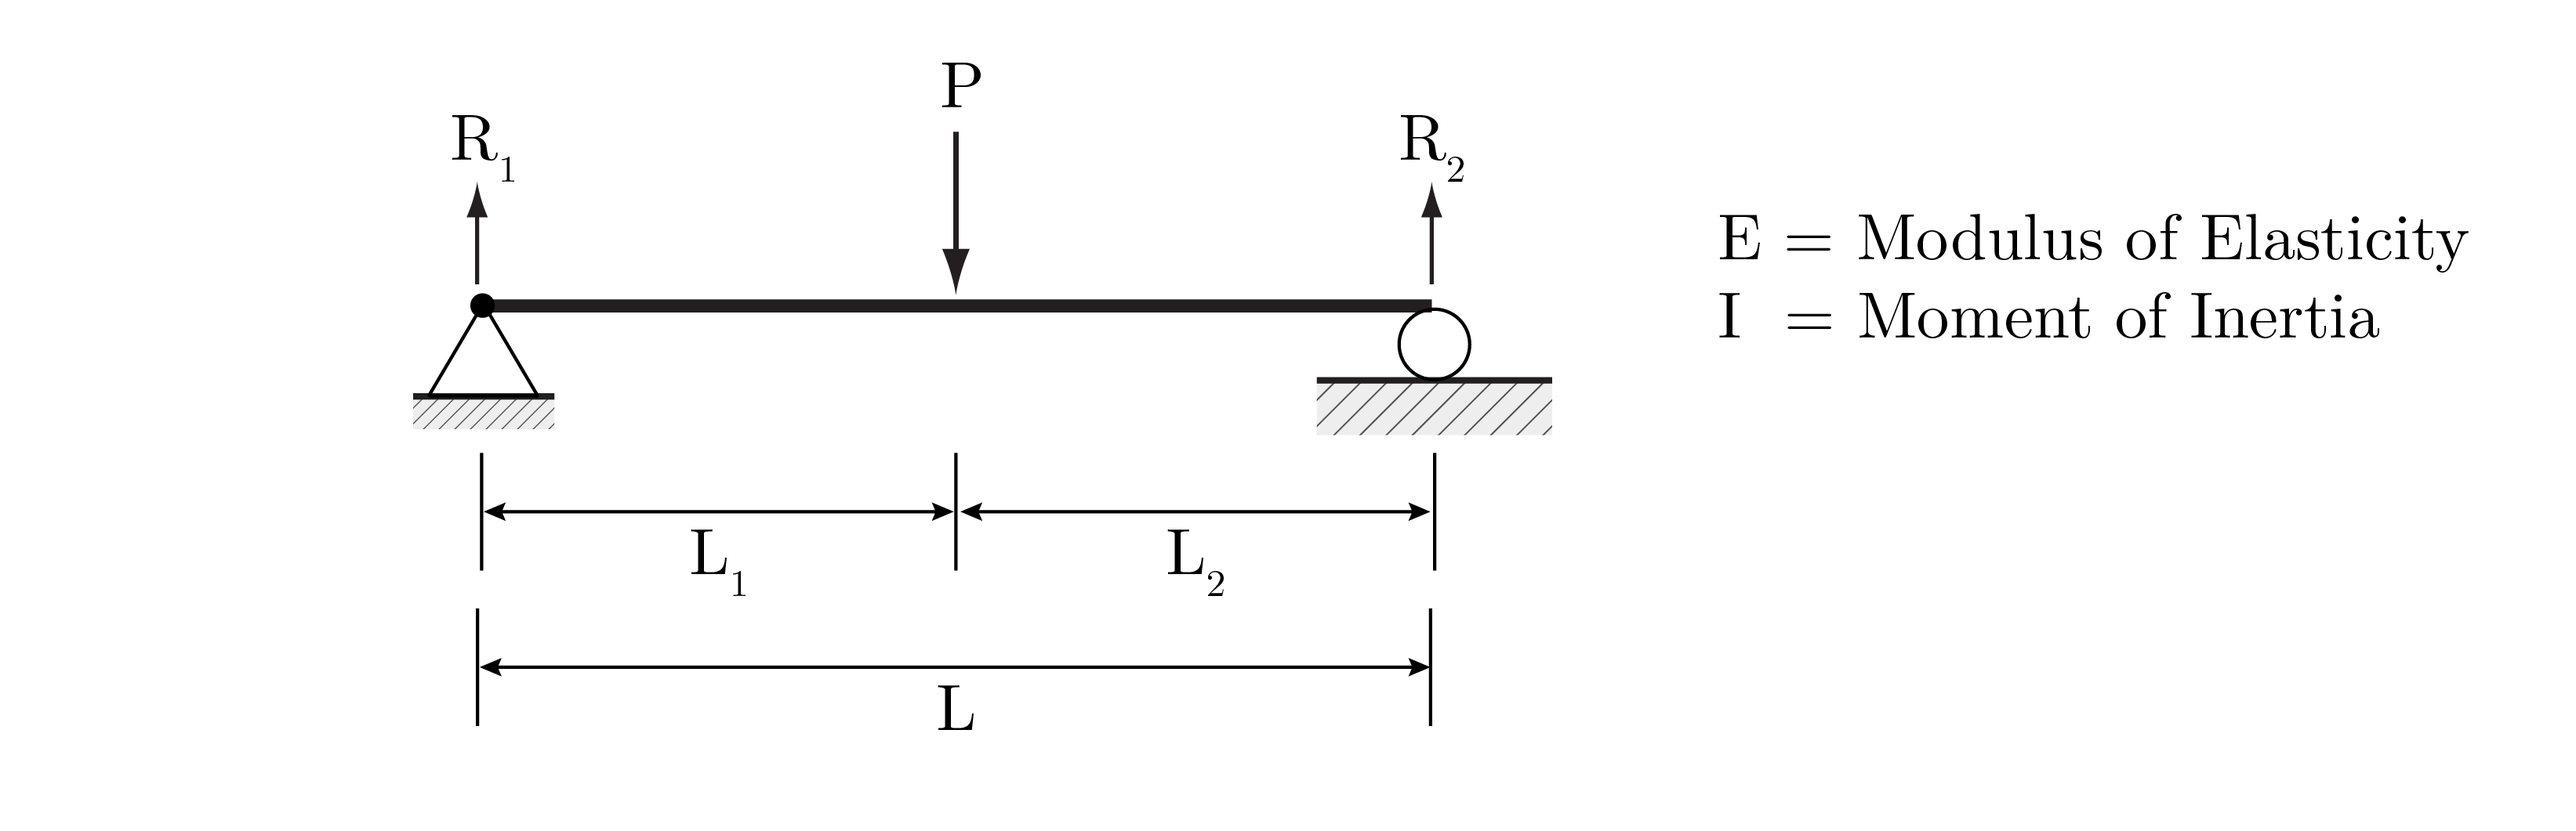
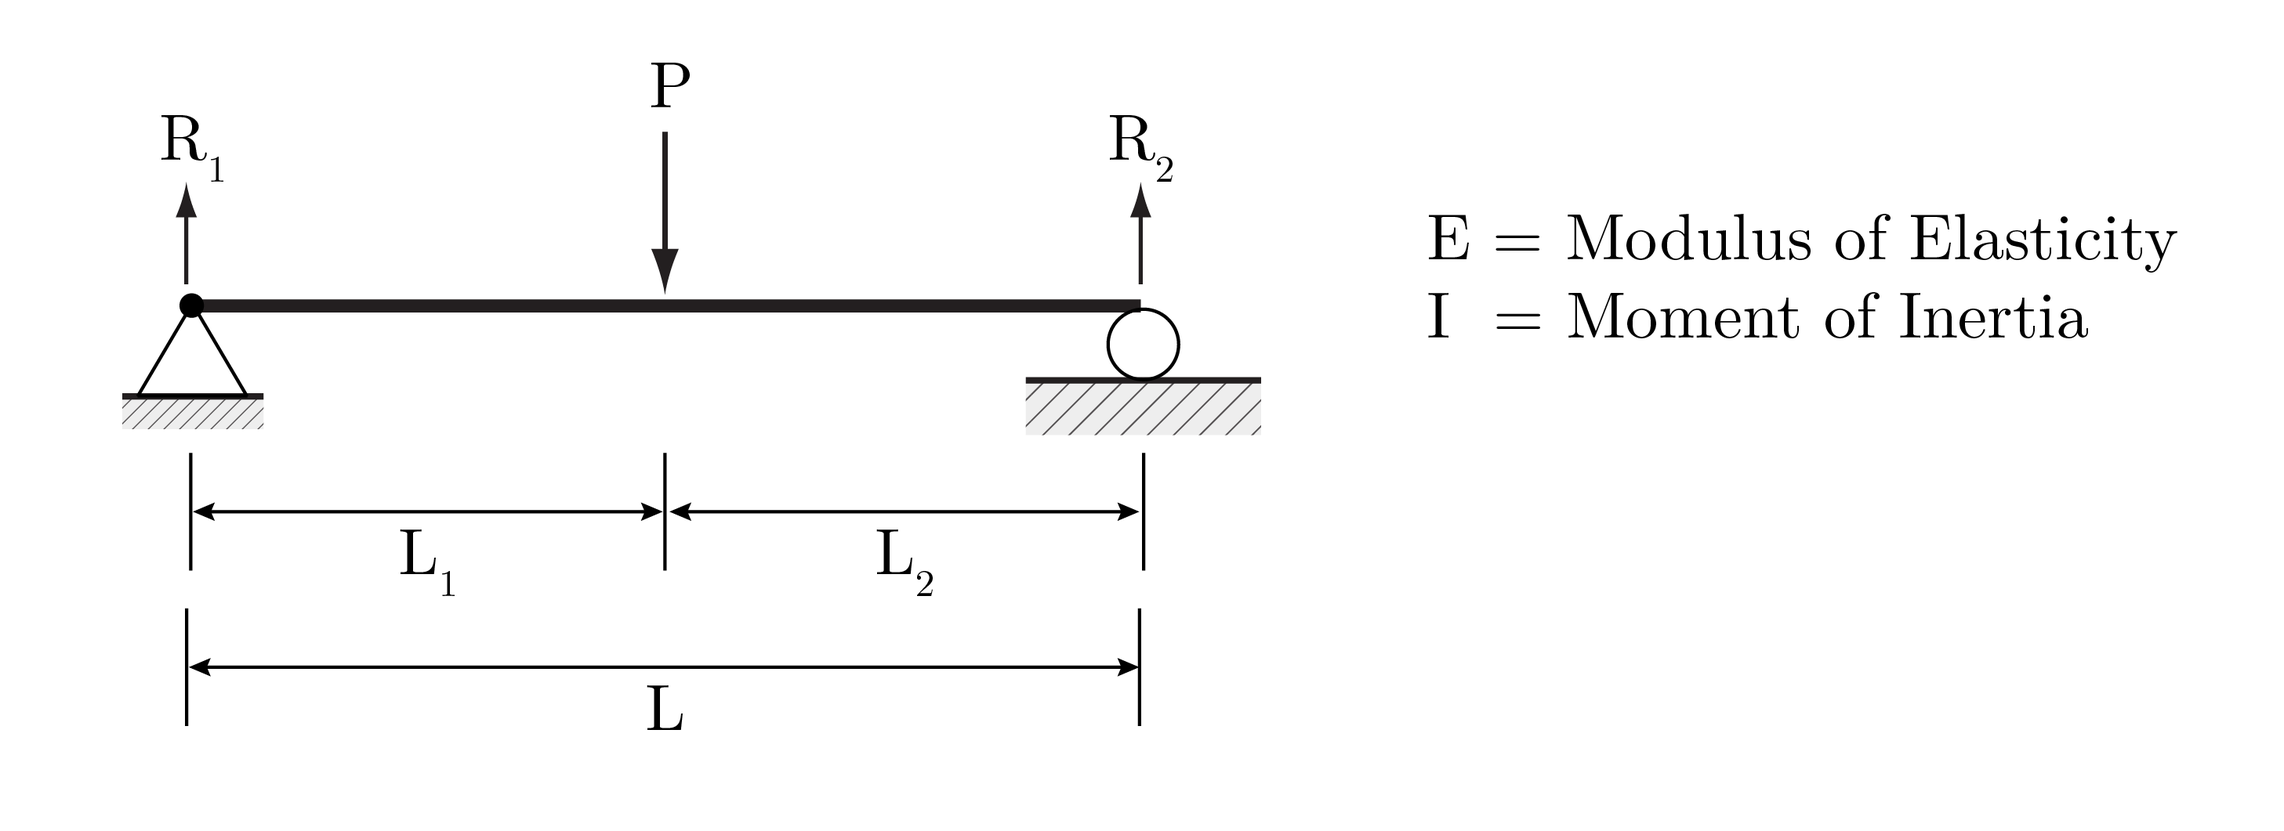
Fixed initial form's PNG squishing on resize.
Also trimmed the left whitespace in the PNG so that it was balanced on both sides.

diff --git a/Web_Version/src/single_load_app/singleLoadApp.js b/Web_Version/src/single_load_app/singleLoadApp.js
@@ -278,7 +278,7 @@ function SingleLoadApp(){
         // No errors.
         setErrorWarning("");
     }
-    
+
     useInterval(updateGraph, 1);
     // useEffect(() => {
     //     const interval = setInterval(emitPing, 2000);
@@ -506,7 +506,7 @@ function SingleLoadApp(){
                         <input type="submit" value="analyze" autoFocus/>
                         <div></div>
                         {/* eslint-disable-next-line no-undef */}
-                        <div><img src={require("../resources/images/Single_load_schematic.png")} height={window.innerHeight/3} width={window.innerWidth/2.5}/></div>
+                        <div><img src={require("../resources/images/Single_load_schematic.png")} height={212.2} width={582.8} align="middle"/></div>
 
                     </form>
                 )

diff --git a/Web_Version/src/ce325_app/ce325App.js b/Web_Version/src/ce325_app/ce325App.js
@@ -357,7 +357,7 @@ function Ce325App(){
                         <input type="submit" value="analyze" autoFocus/>
                     <div></div>
                     {/* eslint-disable-next-line no-undef */}
-                    <div><img src={require("../resources/images/Single_load_schematic.png")} height={window.innerHeight/3} width={window.innerWidth/2.5}/></div>
+                    <div><img src={require("../resources/images/Single_load_schematic.png")} height={212.2} width={582.8} align="middle"/></div>
 
                 </form>
             )
